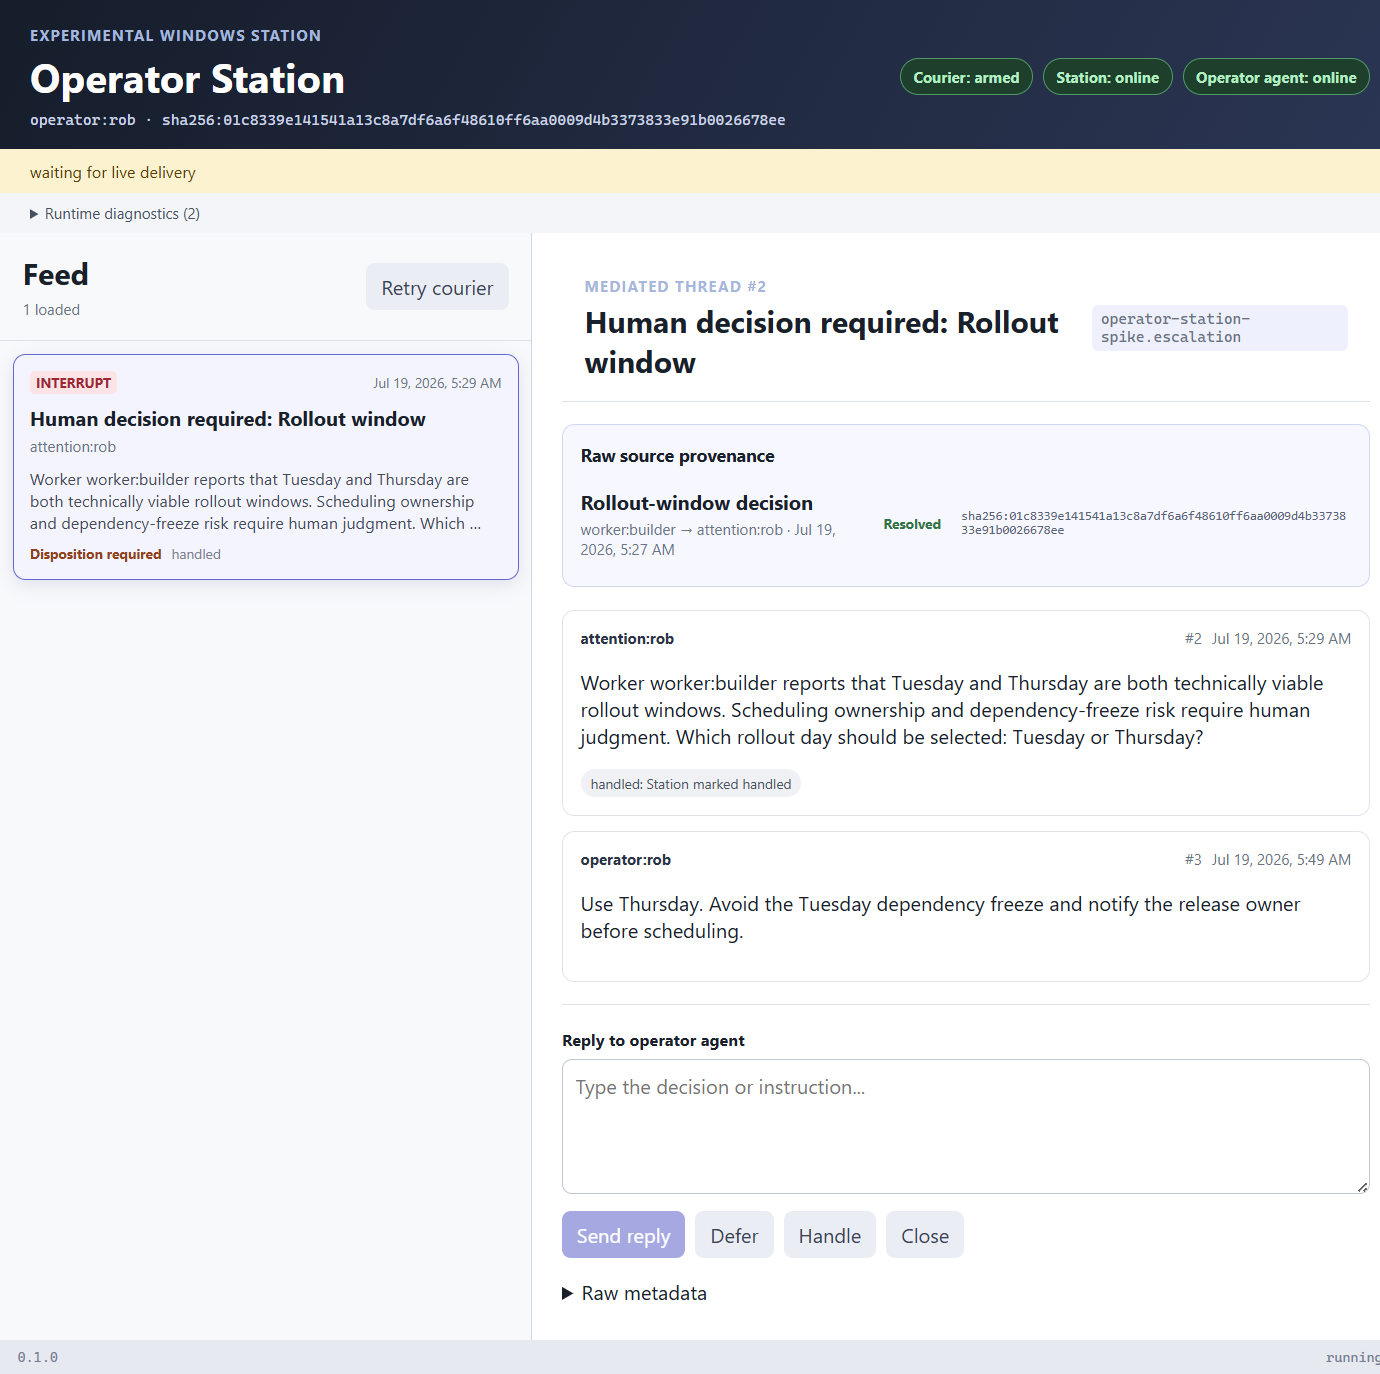
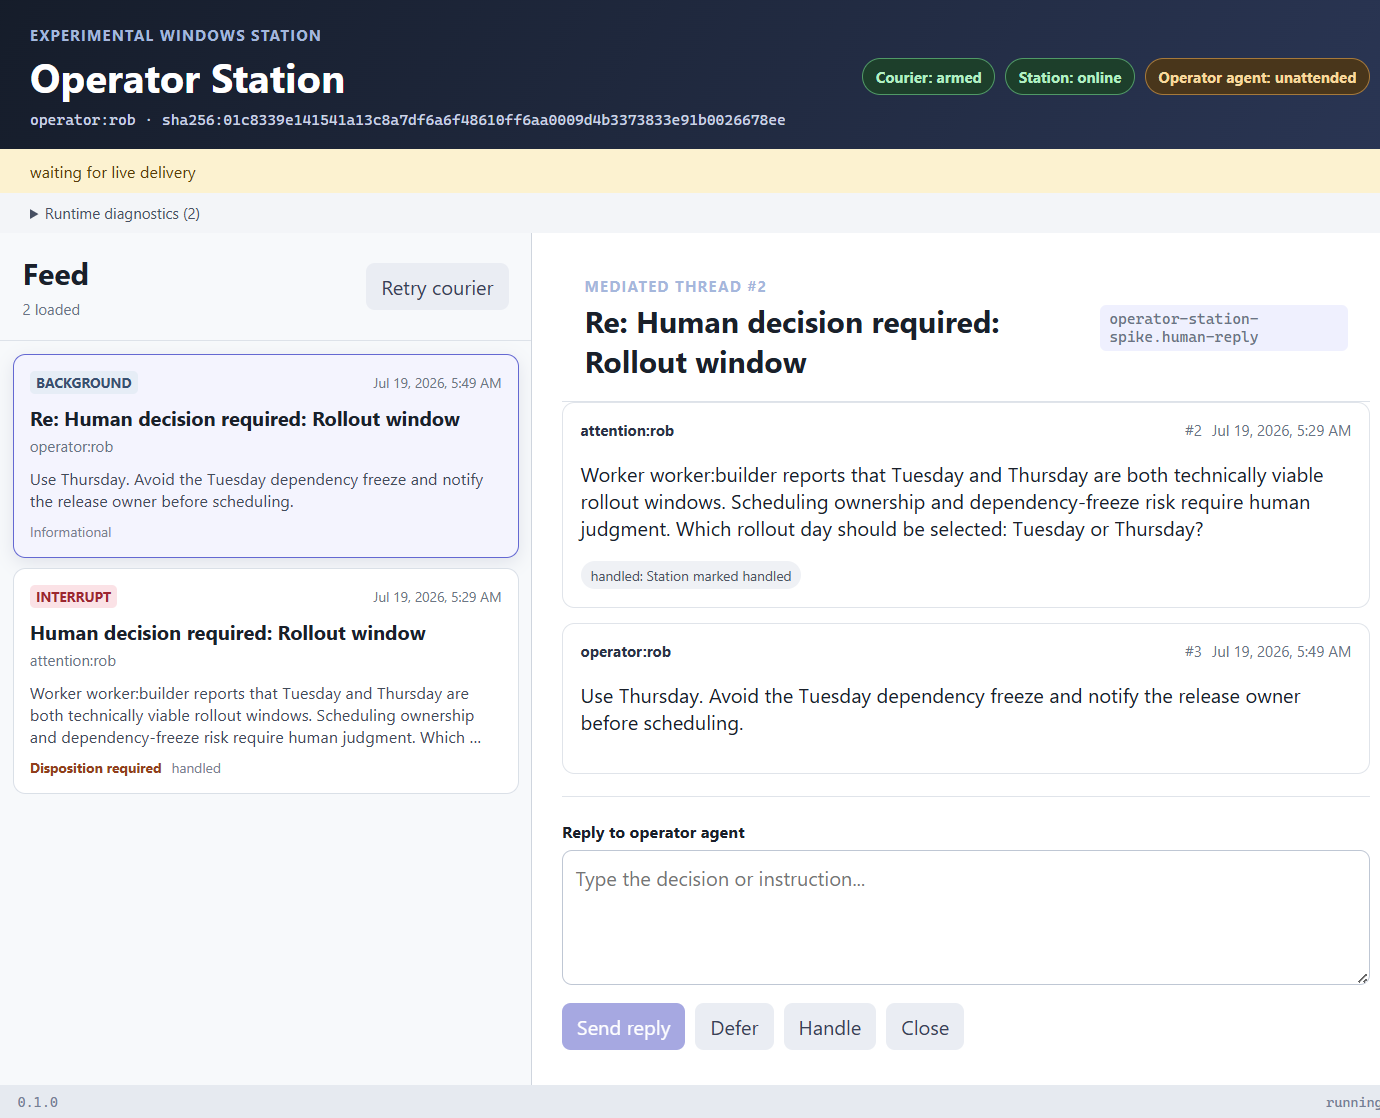
docs: correct operator demo evidence
Copilot-Session: fc7ee353-2ac9-471a-a52b-3d04cc2d5906

diff --git a/operator-station-spike/evidence/demo-summary.md b/operator-station-spike/evidence/demo-summary.md
@@ -33,5 +33,9 @@ healthy courier, and address status. `station-operator-unattended.png` captures
 the occupancy warning.
 
 The Windows toast API returned success for the live interrupt escalation and
-feed ingestion continued. An OS toast screenshot was not captured, so the report
-records that limitation separately from the successful API result.
+feed ingestion continued. A read-only capture from the Windows Action Center
+database records the Station AUMID, notification type `toast`, arrival time
+`2026-07-19T09:29:10.182738Z`, and the exact live escalation title/body/
+attribution. See `windows-action-center-record.json`. No screenshot of the
+transient toast flyout was captured; the persisted OS Action Center record is
+the notification-surface evidence.

diff --git a/docs/operator-loop-spike-report.md b/docs/operator-loop-spike-report.md
@@ -21,6 +21,7 @@ The Tauri Station is runnable, the reusable operator-agent assignment is in
 | Operator escalation | Message `#2`, mediated thread `#2`, kind `operator-station-spike.escalation` |
 | Healthy Station attendance | `station_health=armed`, one live waiter, zero pending unconsumed after ingest/ack |
 | Feed and source provenance | `operator-station-spike/evidence/station-mediated-thread.png` |
+| Windows notification surface | Action Center record `operator-station-spike/evidence/windows-action-center-record.json` |
 | Human reply authored in Station | Message `#3`, `operator:rob -> attention:rob`, mediated thread `#2` |
 | Route back to worker | Message `#4`, `attention:rob -> worker:builder`, raw thread `#1` |
 | Raw lifecycle | Message `#1` dispositions: `escalated`, then `closed` |
@@ -118,7 +119,9 @@ namespace is reserved.
 - The current wait payload does not include metadata, requiring a second
   `read --full` call before ingest/ack.
 - The Windows toast API returned success and no toast error reached the UI, but
-  an OS toast screenshot was not captured.
+  a transient flyout screenshot was not captured. The persisted Windows Action
+  Center database record contains the live escalation title/body/attribution and
+  arrival timestamp.
 - Full export can become slow or memory-heavy on a large store.
 - Postgres, remote principals, spoofing resistance, noisy production traffic,
   delayed/stale replies, and security hardening were not validated.
@@ -152,7 +155,7 @@ namespace is reserved.
 |---|---|---|
 | Worker message reaches operator agent through durable address | demonstrated | Raw message `#1`, push-attended `attention:rob` |
 | Human escalation is understandable and preserves provenance | demonstrated | Escalation `#2`, source card/screenshot, metadata fixture |
-| Desktop feed and Windows notification | demonstrated with caveat | Feed screenshot; toast API success, no OS screenshot |
+| Desktop feed and Windows notification | demonstrated | Feed screenshot plus persisted Windows Action Center toast record |
 | Station reply reaches operator agent and routes back | demonstrated | Messages `#3` and `#4` |
 | Raw and mediated threads remain separately auditable | demonstrated | Thread IDs `#1` and `#2`, dispositions in transcript |
 | Restart preserves unresolved/recent conversation | demonstrated | Stable Station identity across three restarts and UI backfill |